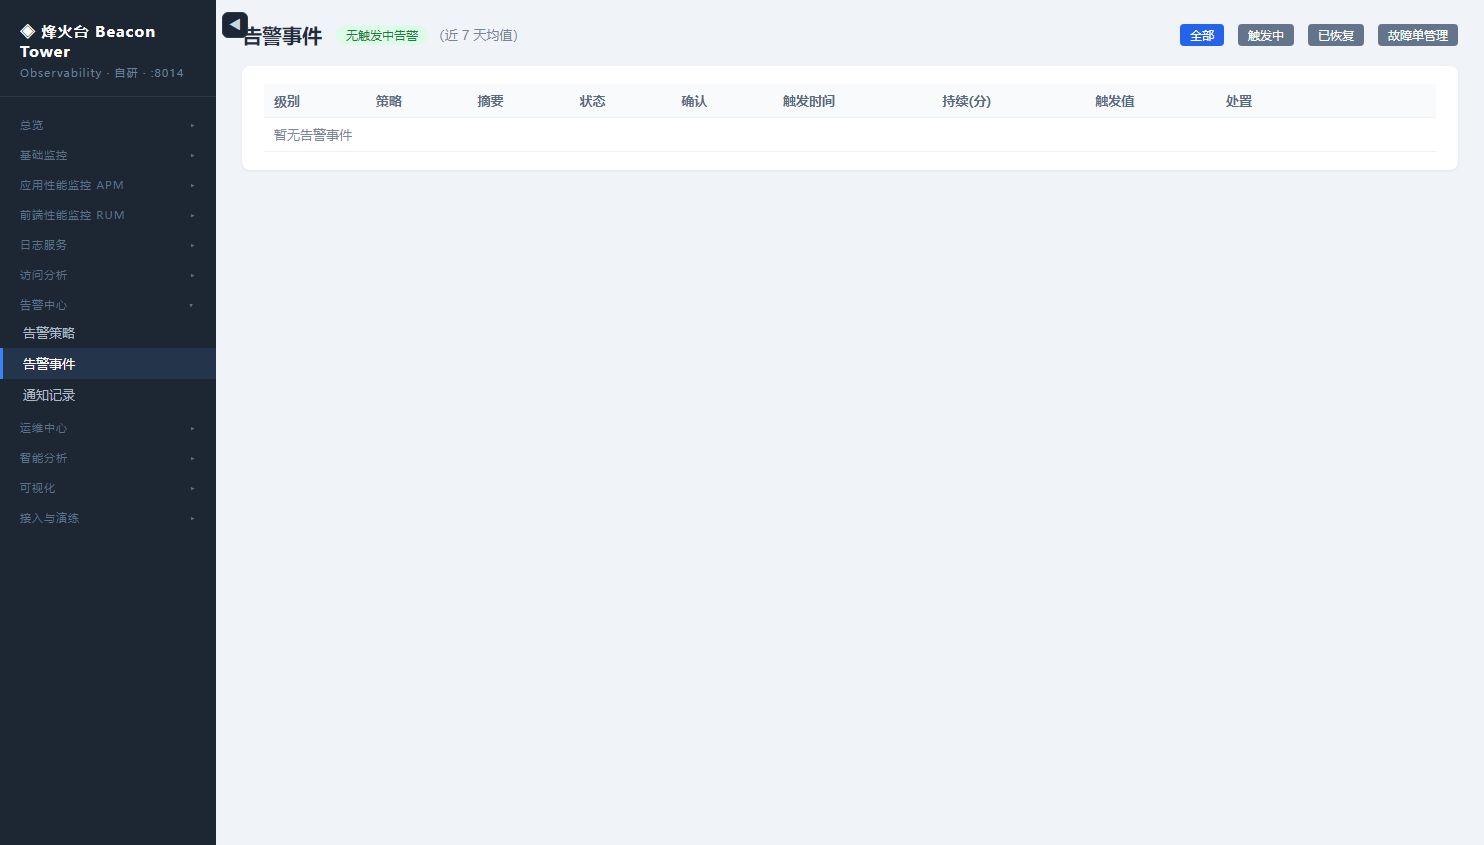
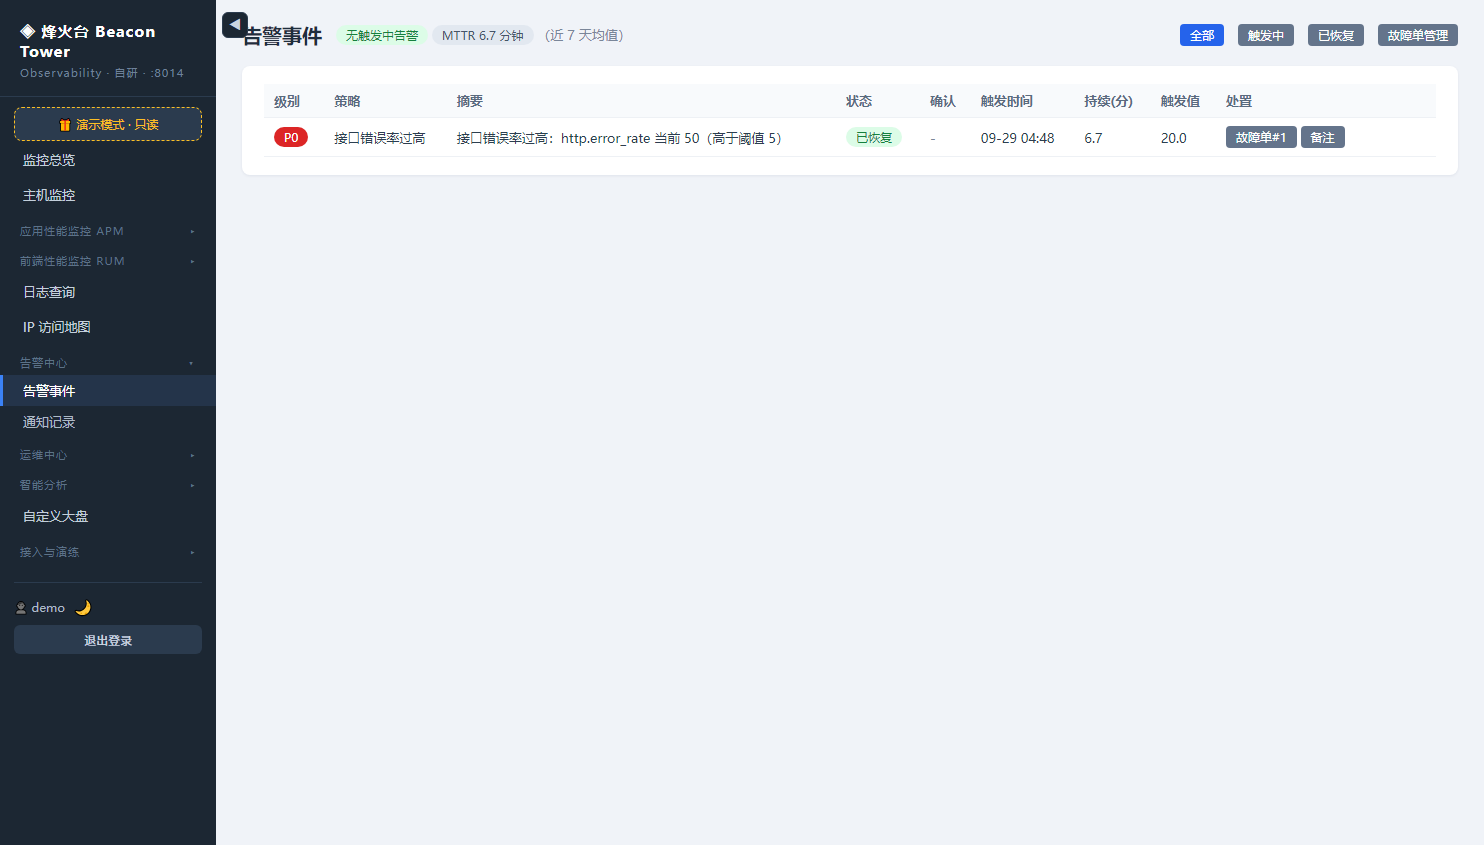
docs: 用改版后的线上实例重做整套截图，补齐环境变量清单与用例数
- 截图全部重取：侧边栏合并成一行后的样子，新增 IP 访问地图 / RUM / 巡检 / 报表四张
- 时间范围选近 6 小时（异常检测那批图才有可解释的异常点，1 小时窗里全是平线）
- README 环境变量表补 OBS_DATABASE_URL / DATA_DIR / STATIC_ROOT / 缓冲四件套 /
  HTTPS 两件套 / SHOW_DEMO_ACCOUNT；.env.example 同步
- 用例数 121→122（新增总览标签跟随时间范围的回归），技术栈表里残留的"× 52"一并改掉

diff --git a/README.md b/README.md
@@ -6,7 +6,7 @@
 [![CI](https://github.com/lianghui32/beacon-tower/actions/workflows/ci.yml/badge.svg)](https://github.com/lianghui32/beacon-tower/actions/workflows/ci.yml)
 ![Python](https://img.shields.io/badge/Python-3.10%2B-3776AB?logo=python&logoColor=white)
 ![Django](https://img.shields.io/badge/Django-5.2-44B78B?logo=django&logoColor=white)
-![Tests](https://img.shields.io/badge/tests-121%20passing-2EA043)
+![Tests](https://img.shields.io/badge/tests-122%20passing-2EA043)
 ![Docker](https://img.shields.io/badge/deploy-Docker%20Compose-2496ED?logo=docker&logoColor=white)
 [![License: MIT](https://img.shields.io/badge/License-MIT-yellow.svg)](LICENSE)
 
@@ -17,7 +17,7 @@
 > 内置**整站登录认证**与**接入令牌**，支持通过自研 Agent 接入**多台服务器**。
 > 开发端口：**8014**。
 
-### 效果预览（截图取自线上实例）
+### 效果预览（截图取自线上实例，用登录页公开的只读演示账号浏览）
 
 | 监控总览 | APM 接口分析 |
 |---|---|
@@ -26,6 +26,19 @@
 | ![调用链](docs/screenshots/trace.png) | ![相关性](docs/screenshots/analytics_corr.png) |
 | **主机监控（psutil 真实读数）** | **日志查询** |
 | ![主机](docs/screenshots/host.png) | ![日志](docs/screenshots/logs.png) |
+| **数据库分析（慢查询模板归并）** | **告警事件** |
+| ![数据库](docs/screenshots/database.png) | ![告警](docs/screenshots/alerts.png) |
+| **异常检测（滑动 3σ）** | **AST 静态诊断** |
+| ![异常](docs/screenshots/analytics_anomaly.png) | ![诊断](docs/screenshots/diagnose.png) |
+| **IP 访问地图（省份热力）** | **前端 RUM 数据总览** |
+| ![地图](docs/screenshots/geo.png) | ![RUM](docs/screenshots/rum.png) |
+| **SLO 错误预算燃尽** | **自定义大盘** |
+| ![SLO](docs/screenshots/ops_slo.png) | ![大盘](docs/screenshots/dashboard_custom.png) |
+
+另有几张同样可点开：**[巡检中心](docs/screenshots/ops_inspection.png)**（健康评分与耗尽预测）、
+**[报表中心](docs/screenshots/analytics_report.png)**（周期汇总）、
+**[拨测监控](docs/screenshots/probe.png)**、**[清理加速中心](docs/screenshots/cleaner.png)**
+（后两张是 staff 专属页面，截图取自侧边栏改版前）。
 
 ## 一、项目背景（从"性能监控"到"可观测平台"）
 
@@ -80,9 +93,9 @@
 |---|---|---|
 | 语言 | Python 3.10+ | |
 | Web 框架 | Django 5.2 | 核心框架 |
-| 数据库 | SQLite（演示零配置）/ PostgreSQL 16（生产） | `OBS_DATABASE_URL` 一键切换 |
-| 应用服务器 | runserver（开发）/ gunicorn（生产） | Docker Compose 一键编排 |
-| 测试 | Django TestCase × 52 | 算法/脱敏/限速/告警引擎/鉴权/追踪全覆盖，CI 自动执行 |
+| 数据库 | SQLite（演示零配置）/ PostgreSQL（生产） | `OBS_DATABASE_URL` 一键切换；线上实例是宿主 PostgreSQL 18 |
+| 应用服务器 | runserver（开发）/ gunicorn（生产） | Docker Compose 编排，或无 Docker 的 systemd 托管（线上实例用的就是这个） |
+| 测试 | Django TestCase × 122 | 算法/脱敏/限速/告警引擎/鉴权/追踪/缓冲/租约/删除边界全覆盖，CI 自动执行 |
 | CI | GitHub Actions | ruff 静态检查 + 系统检查 + migration 完整性 + 全量测试 |
 | 主机采集 | psutil | 唯一推荐依赖；未安装自动降级为模拟指标 |
 | 图表 | ECharts 5 | **本地自托管**（static/echarts.min.js），无 CDN 依赖 |
@@ -139,10 +152,17 @@ python manage.py runserver 8014
 | `DJANGO_DEBUG=0` | 关闭调试页（默认 `1` 便于演示），并自动启用安全响应头 |
 | `DJANGO_ALLOWED_HOSTS` | 逗号分隔的合法 Host，如 `obs.example.com,10.0.0.5` |
 | `DJANGO_ALLOW_ALL_HOSTS=0` | 关闭默认的 `*` 兜底（演示用） |
+| `OBS_DATABASE_URL` | `postgres://user:pass@host:5432/db` 切到 PostgreSQL；不设则用 SQLite（WAL） |
+| `OBS_DATA_DIR` | 接入令牌 / 演示凭据 / SQLite 兜底库的落盘目录（代码树对服务用户只读时必须指到可写目录） |
+| `OBS_STATIC_ROOT` | `collectstatic` 输出目录；`DEBUG=0` 时由反代从同一位置伺服 `/static/` |
 | `OBS_INGEST_TOKEN` | 覆盖自动生成的接入令牌 |
+| `OBS_METRIC_BUFFER=0` | 关掉请求指标批量缓冲，退回逐条同步写库（牺牲 p99 换"写完即可读"） |
+| `OBS_METRIC_BUFFER_BATCH` / `_FLUSH_SEC` / `_QUEUE_SIZE` | 批量落库的三个阈值：攒满多少条 / 多久刷一次 / 队列上限（默认 200 条 / 1 秒 / 20000） |
 | `OBS_WORKERS_ENABLED` | 强制指定/排除某进程参与后台任务（`1`/`0`）；不设时由租约选主决定谁干活 |
 | `OBS_LEASE_TTL_SEC` | 后台任务租约时长（默认 60）：持有者宕机后其它副本最长等这么久接管 |
 | `OBS_TRUST_XFORWARDED_FOR=1` | 仅在可信反向代理后开启，否则客户端可伪造 IP 污染统计与审计 |
+| `DJANGO_SECURE_COOKIES=1` + `DJANGO_CSRF_TRUSTED_ORIGINS` | HTTPS 部署两项都要开：Cookie 只走加密通道、CSRF 信任源显式列白名单 |
+| `OBS_SHOW_DEMO_ACCOUNT=1` | 登录页公开展示只读演示账号密码（默认跟随 `DEBUG`，对外演示才开） |
 | `OBS_HEAL_CMD_ALLOWLIST` | 自愈 command 白名单（可执行文件绝对路径，Windows 分号/Unix 冒号分隔），**不配置则 command 类型禁用** |
 | `OBS_ALLOW_LOOPBACK_URL` / `OBS_ALLOW_PRIVATE_URL` | 出站拨测/回调允许环回/私网目标（默认允许，内网拨测需要） |
 | `OBS_INSPECT_INTERVAL_HOURS` | 定时巡检周期（默认 12） |
@@ -323,7 +343,7 @@ scrape_configs:
 │   ├── metrics.py              #   Prometheus 文本输出（含采集管道与租约自观测）
 │   ├── diagnoser.py            #   AST 静态诊断引擎（核心创新保留）
 │   ├── workers.py              #   后台线程启动器（幂等）
-│   ├── tests.py                #   链路/门禁/缓冲/租约回归（52+ 例）
+│   ├── tests.py                #   链路/门禁/缓冲/租约回归（40 例）
 │   └── management/commands/
 │       ├── init_data.py        #   全观测域演示数据种子
 │       ├── obs_workers.py      #   worker 角色（副本数不限，内部选主）
@@ -357,7 +377,7 @@ scrape_configs:
 6. **问题版/优化版同框对比**（继承自前身项目）：同一论坛页面的两种实现，页面底部实时显示 SQL 次数与耗时，配合压测输出量化对比。
 7. **运维闭环延伸到"机器本身"**：巡检给出健康评分与容量耗尽预测，自愈执行白名单处置，清理加速中心做磁盘分析/垃圾清理/内存整理——监控不止于"看"，还能"治"。
 8. **安全工程贯穿全程**：四类对手威胁模型 + 三轮红队审查闭环（每轮发现→修复→回归实测），安全白皮书（SECURITY.md）记录全部防护设计与验证方法，可复现、可审计。
-9. **工程化成熟度**：121 个测试用例 + GitHub Actions CI（lint/检查/migration 完整性/测试）、
+9. **工程化成熟度**：122 个测试用例 + GitHub Actions CI（lint/检查/migration 完整性/测试）、
    Docker Compose 三角色生产编排（web/worker/db 分离）、后台任务租约选主（多副本只跑一份，持有者宕机自动接管）、
    采集写路径与请求路径解耦（批量缓冲 + 丢弃计数自观测 + 退出排空）、
    W3C Trace Context 跨服务链路语义、告警 for-duration/恢复迟滞/静默等生产语义、
@@ -483,7 +503,7 @@ systemctl enable --now beacon.service beacon-worker.service
 ## 十六、测试与 CI
 
 ```bash
-python manage.py test          # 121 个用例，SQLite 内存库，无需外部服务
+python manage.py test          # 122 个用例，SQLite 内存库，无需外部服务
 python -m ruff check .         # 静态检查（ruff.toml）
 ```
 
